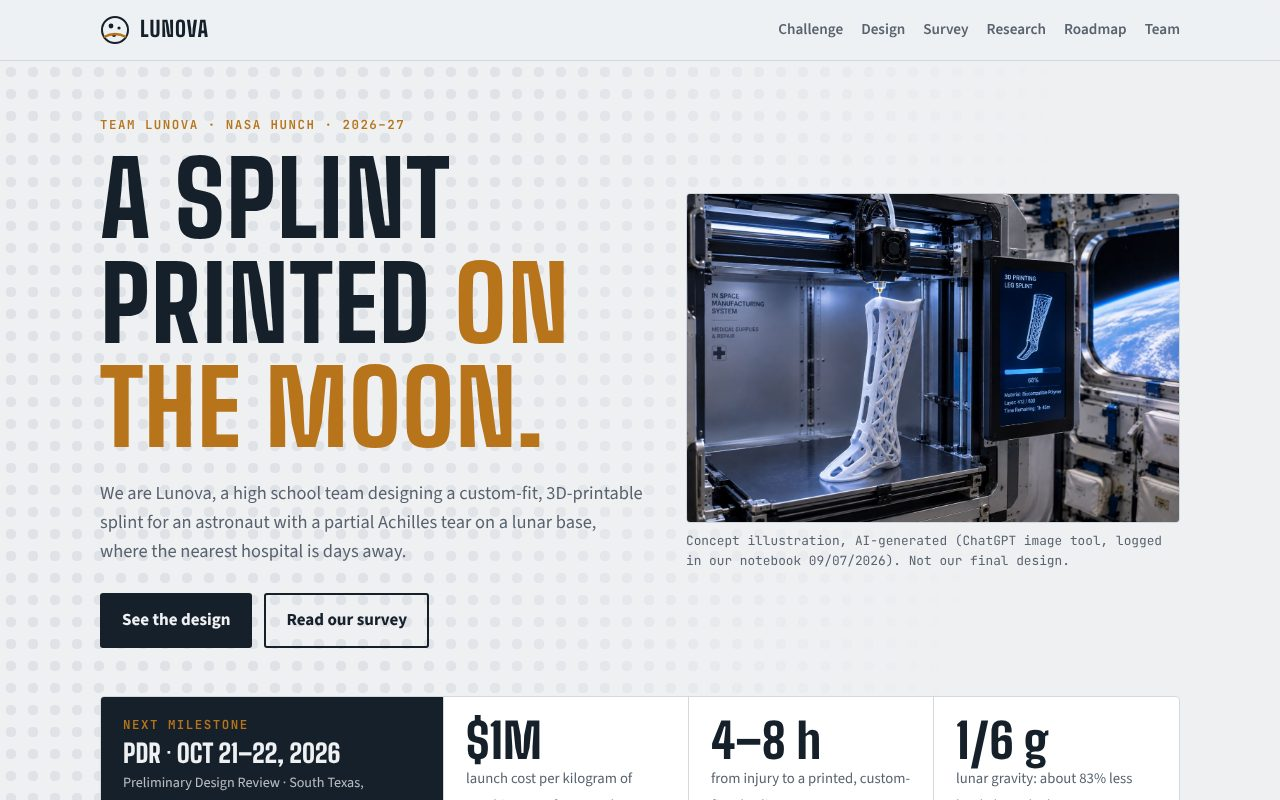
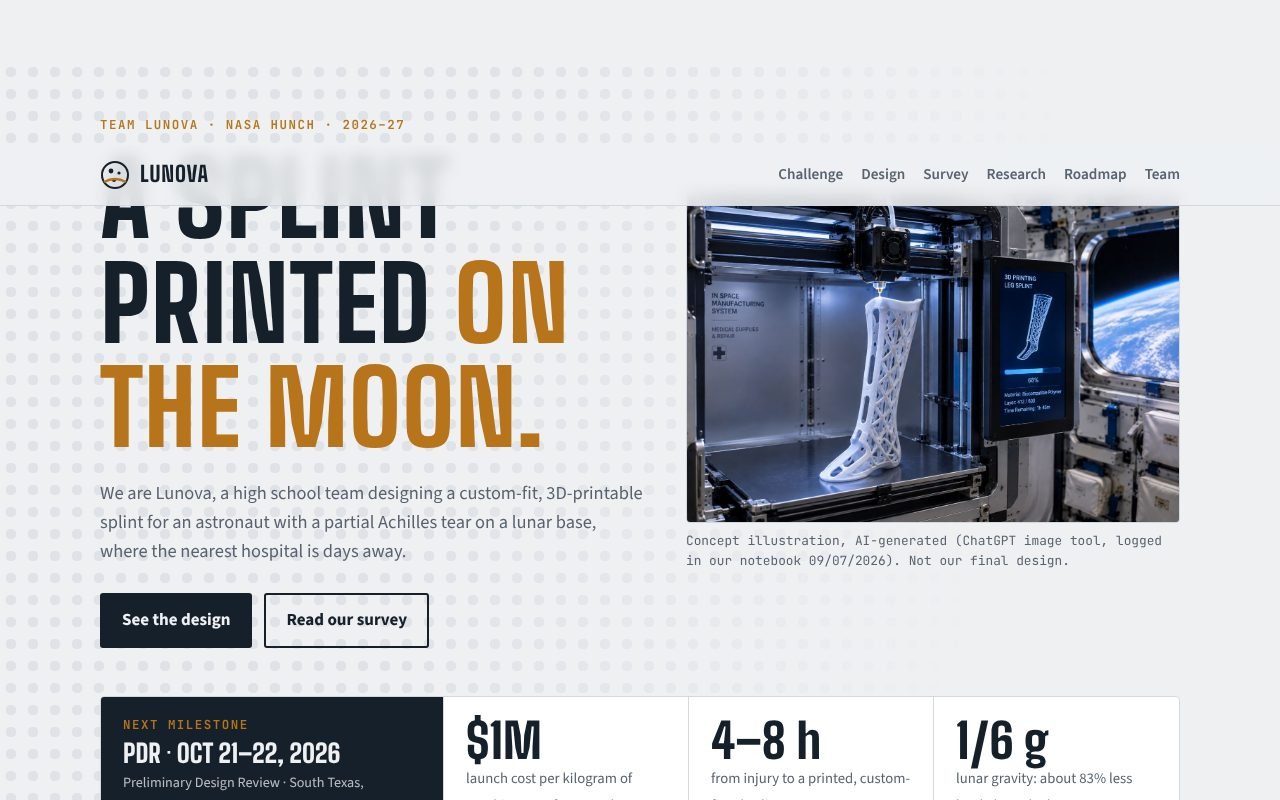
Split the site into separate pages and make the PDR countdown tick live
Claude-Session: https://claude.ai/code/session_01BrZzckZhtJnifegXE49Z2Z

diff --git a/app/globals.css b/app/globals.css
@@ -221,5 +221,25 @@ footer ol.plain{list-style:none;padding:0}
 .sketch .sk-call line{stroke:var(--muted);stroke-width:1}
 .stack{display:grid;gap:24px}.stack > *{min-width:0}
 .headshot{width:120px;height:120px;border-radius:50%;object-fit:cover;display:block;margin-bottom:12px;border:3px solid var(--peek-soft)}
-.countdown{display:block;margin-top:10px;font:600 .85rem/1.2 var(--font-mono);color:var(--peek);font-variant-numeric:tabular-nums}
-.countdown b{font:800 1.5rem/1 var(--font-display);color:var(--bg)}
+.countdown{margin-top:14px;display:grid;gap:8px}
+.countdown .live{display:inline-flex;align-items:center;gap:7px;font:600 .7rem/1 var(--font-mono);letter-spacing:.1em;text-transform:uppercase;color:var(--peek)}
+.countdown .live i{width:8px;height:8px;border-radius:50%;background:#e5484d;box-shadow:0 0 0 0 rgba(229,72,77,.6);animation:pulse 1.6s infinite}
+@keyframes pulse{0%{box-shadow:0 0 0 0 rgba(229,72,77,.6)}70%{box-shadow:0 0 0 8px rgba(229,72,77,0)}100%{box-shadow:0 0 0 0 rgba(229,72,77,0)}}
+.countdown .units{display:grid;grid-template-columns:repeat(4,minmax(0,1fr));gap:6px}
+.countdown .units div{background:color-mix(in srgb,var(--bg) 10%,transparent);border:1px solid color-mix(in srgb,var(--bg) 22%,transparent);border-radius:3px;padding:6px 4px;text-align:center}
+.countdown .units b{display:block;font:800 1.7rem/1 var(--font-display);color:var(--bg);font-variant-numeric:tabular-nums}
+.countdown .units span{font:600 .62rem/1 var(--font-mono);letter-spacing:.08em;text-transform:uppercase;opacity:.75}
+/* multi-page */
+.nav ul a[aria-current="page"]{color:var(--ink);box-shadow:inset 0 -2px 0 var(--peek)}
+@media (max-width:760px){
+  .nav ul{display:flex;width:100%;overflow-x:auto;flex-wrap:nowrap;gap:18px;padding-bottom:10px;scrollbar-width:none}
+  .nav ul a{white-space:nowrap}
+}
+.subpage section{border-bottom:0}
+.cards{display:grid;grid-template-columns:repeat(3,1fr);gap:20px}
+.card{position:relative;display:grid;gap:8px;align-content:start;padding:22px 22px 48px;background:var(--surface);border:1px solid var(--line);border-radius:4px;text-decoration:none;transition:border-color .15s,transform .15s}
+.card:hover{border-color:var(--peek);transform:translateY(-2px)}
+.card p{color:var(--muted);font-size:.96rem}
+.card .go{position:absolute;left:22px;bottom:16px;font:600 1.1rem var(--font-mono);color:var(--peek)}
+@media (max-width:860px){.cards{grid-template-columns:1fr 1fr}}
+@media (max-width:520px){.cards{grid-template-columns:1fr}}

diff --git a/components/Countdown.tsx b/components/Countdown.tsx
@@ -2,26 +2,43 @@
 
 import { useEffect, useState } from "react";
 
-// Live countdown to a fixed moment, rendered as days / hours / minutes.
+const pad = (n: number) => String(n).padStart(2, "0");
+
+// Live countdown to a fixed moment, ticking every second.
 export default function Countdown({ to }: { to: string }) {
   const target = new Date(to).getTime();
   const [now, setNow] = useState<number | null>(null);
 
   useEffect(() => {
     setNow(Date.now());
-    const id = setInterval(() => setNow(Date.now()), 30_000);
+    const id = setInterval(() => setNow(Date.now()), 1000);
     return () => clearInterval(id);
   }, []);
 
-  if (now === null) return <span className="countdown">&nbsp;</span>;
-  const ms = Math.max(0, target - now);
-  if (ms === 0) return <span className="countdown">Happening now</span>;
-  const d = Math.floor(ms / 86_400_000);
-  const h = Math.floor((ms % 86_400_000) / 3_600_000);
-  const m = Math.floor((ms % 3_600_000) / 60_000);
+  const ms = now === null ? null : Math.max(0, target - now);
+  const units =
+    ms === null
+      ? [["--", "Days"], ["--", "Hours"], ["--", "Min"], ["--", "Sec"]]
+      : [
+          [String(Math.floor(ms / 86_400_000)), "Days"],
+          [pad(Math.floor((ms % 86_400_000) / 3_600_000)), "Hours"],
+          [pad(Math.floor((ms % 3_600_000) / 60_000)), "Min"],
+          [pad(Math.floor((ms % 60_000) / 1000)), "Sec"],
+        ];
+
   return (
-    <span className="countdown" aria-live="off">
-      <b>{d}</b>d <b>{h}</b>h <b>{m}</b>m to go
-    </span>
+    <div className="countdown" role="timer" aria-label="Time until PDR">
+      <span className="live">
+        <i aria-hidden="true" /> {ms === 0 ? "Happening now" : "Live countdown"}
+      </span>
+      <div className="units">
+        {units.map(([v, l]) => (
+          <div key={l}>
+            <b>{v}</b>
+            <span>{l}</span>
+          </div>
+        ))}
+      </div>
+    </div>
   );
 }

diff --git a/components/Nav.tsx b/components/Nav.tsx
@@ -1,17 +1,15 @@
-const links = [
-  ["challenge", "Challenge"],
-  ["design", "Design"],
-  ["survey", "Survey"],
-  ["research", "Research"],
-  ["roadmap", "Roadmap"],
-  ["team", "Team"],
-];
+"use client";
+
+import Link from "next/link";
+import { usePathname } from "next/navigation";
+import { pages } from "@/lib/pages";
 
 export default function Nav() {
+  const path = usePathname();
   return (
     <nav className="nav" aria-label="Main">
       <div className="wrap">
-        <a className="brand" href="#top">
+        <Link className="brand" href="/">
           <svg width="30" height="30" viewBox="0 0 30 30" aria-hidden="true">
             <circle cx="15" cy="15" r="13" fill="none" stroke="currentColor" strokeWidth="2" />
             <circle cx="11" cy="11" r="2.4" fill="currentColor" />
@@ -20,13 +18,18 @@ export default function Nav() {
             <path d="M4 22 Q15 16 26 22" fill="none" stroke="var(--peek)" strokeWidth="2.4" />
           </svg>
           Lunova
-        </a>
+        </Link>
         <ul>
-          {links.map(([id, label]) => (
-            <li key={id}>
-              <a href={`#${id}`}>{label}</a>
-            </li>
-          ))}
+          {pages.map((p) => {
+            const active = path?.replace(/\/$/, "").endsWith(`/${p.slug}`);
+            return (
+              <li key={p.slug}>
+                <Link href={`/${p.slug}/`} aria-current={active ? "page" : undefined}>
+                  {p.label}
+                </Link>
+              </li>
+            );
+          })}
         </ul>
       </div>
     </nav>

diff --git a/lib/pages.ts b/lib/pages.ts
@@ -1,0 +1,9 @@
+// Site pages, in nav order. Used by the nav and the home page cards.
+export const pages = [
+  { slug: "challenge", label: "Challenge", blurb: "Why a lunar base needs its own splint, and the constraints the Moon adds." },
+  { slug: "design", label: "Design", blurb: "Our Achilles splint: spec sheet, innovations, concept sketch and mass budget." },
+  { slug: "survey", label: "Survey", blurb: "What 56 classmates told us about fit, comfort and 3D-printed devices." },
+  { slug: "research", label: "Research", blurb: "Photos and notes from our design notebook and athletic-trainer interview." },
+  { slug: "roadmap", label: "Roadmap", blurb: "The five deliverables and our path through PDR, CDR and FDR." },
+  { slug: "team", label: "Team", blurb: "Meet Team Lunova and our teachers." },
+] as const;

diff --git a/app/page.tsx b/app/page.tsx
@@ -1,28 +1,13 @@
-import Challenge from "@/components/Challenge";
-import Design from "@/components/Design";
-import Footer from "@/components/Footer";
 import Hero from "@/components/Hero";
-import Nav from "@/components/Nav";
-import Research from "@/components/Research";
-import Roadmap from "@/components/Roadmap";
-import Survey from "@/components/Survey";
-import Team from "@/components/Team";
+import PageLinks from "@/components/PageLinks";
 
 export default function Home() {
   return (
     <>
-      <a className="skip" href="#challenge">Skip to content</a>
-      <Nav />
       <Hero />
       <main>
-        <Challenge />
-        <Design />
-        <Survey />
-        <Research />
-        <Roadmap />
-        <Team />
+        <PageLinks />
       </main>
-      <Footer />
     </>
   );
 }

diff --git a/app/layout.tsx b/app/layout.tsx
@@ -1,5 +1,7 @@
 import type { Metadata } from "next";
 import { Big_Shoulders, JetBrains_Mono, Source_Sans_3 } from "next/font/google";
+import Footer from "@/components/Footer";
+import Nav from "@/components/Nav";
 import "./globals.css";
 
 const display = Big_Shoulders({ subsets: ["latin"], weight: ["600", "800"], variable: "--nf-display" });
@@ -15,7 +17,12 @@ export const metadata: Metadata = {
 export default function RootLayout({ children }: { children: React.ReactNode }) {
   return (
     <html lang="en" className={`${display.variable} ${body.variable} ${mono.variable}`}>
-      <body>{children}</body>
+      <body>
+        <a className="skip" href="#main">Skip to content</a>
+        <Nav />
+        <div id="main">{children}</div>
+        <Footer />
+      </body>
     </html>
   );
 }

diff --git a/components/PageLinks.tsx b/components/PageLinks.tsx
@@ -1,0 +1,25 @@
+import Link from "next/link";
+import { pages } from "@/lib/pages";
+
+// Cards linking to every section page, used on the home page.
+export default function PageLinks() {
+  return (
+    <section className="explore">
+      <div className="wrap">
+        <div className="head">
+          <p className="eyebrow">Explore the project</p>
+          <h2>Six pages, one splint</h2>
+        </div>
+        <div className="cards">
+          {pages.map((p) => (
+            <Link key={p.slug} href={`/${p.slug}/`} className="card">
+              <h3>{p.label}</h3>
+              <p>{p.blurb}</p>
+              <span className="go" aria-hidden="true">→</span>
+            </Link>
+          ))}
+        </div>
+      </div>
+    </section>
+  );
+}

diff --git a/components/Hero.tsx b/components/Hero.tsx
@@ -1,4 +1,5 @@
 import { heroStats, pdr } from "@/lib/content";
+import Link from "next/link";
 import Countdown from "./Countdown";
 import { asset } from "@/lib/asset";
 
@@ -16,8 +17,8 @@ export default function Hero() {
             Achilles tear on a lunar base, where the nearest hospital is days away.
           </p>
           <div className="ctas">
-            <a className="btn primary" href="#design">See the design</a>
-            <a className="btn" href="#survey">Read our survey</a>
+            <Link className="btn primary" href="/design/">See the design</Link>
+            <Link className="btn" href="/survey/">Read our survey</Link>
           </div>
         </div>
         <figure>

diff --git a/app/challenge/page.tsx b/app/challenge/page.tsx
@@ -1,0 +1,12 @@
+import type { Metadata } from "next";
+import Challenge from "@/components/Challenge";
+
+export const metadata: Metadata = { title: "Challenge · Lunova" };
+
+export default function ChallengePage() {
+  return (
+    <main className="subpage">
+      <Challenge />
+    </main>
+  );
+}

diff --git a/app/research/page.tsx b/app/research/page.tsx
@@ -1,0 +1,12 @@
+import type { Metadata } from "next";
+import Research from "@/components/Research";
+
+export const metadata: Metadata = { title: "Research · Lunova" };
+
+export default function ResearchPage() {
+  return (
+    <main className="subpage">
+      <Research />
+    </main>
+  );
+}

diff --git a/app/roadmap/page.tsx b/app/roadmap/page.tsx
@@ -1,0 +1,12 @@
+import type { Metadata } from "next";
+import Roadmap from "@/components/Roadmap";
+
+export const metadata: Metadata = { title: "Roadmap · Lunova" };
+
+export default function RoadmapPage() {
+  return (
+    <main className="subpage">
+      <Roadmap />
+    </main>
+  );
+}

diff --git a/app/design/page.tsx b/app/design/page.tsx
@@ -1,0 +1,12 @@
+import type { Metadata } from "next";
+import Design from "@/components/Design";
+
+export const metadata: Metadata = { title: "Design · Lunova" };
+
+export default function DesignPage() {
+  return (
+    <main className="subpage">
+      <Design />
+    </main>
+  );
+}
